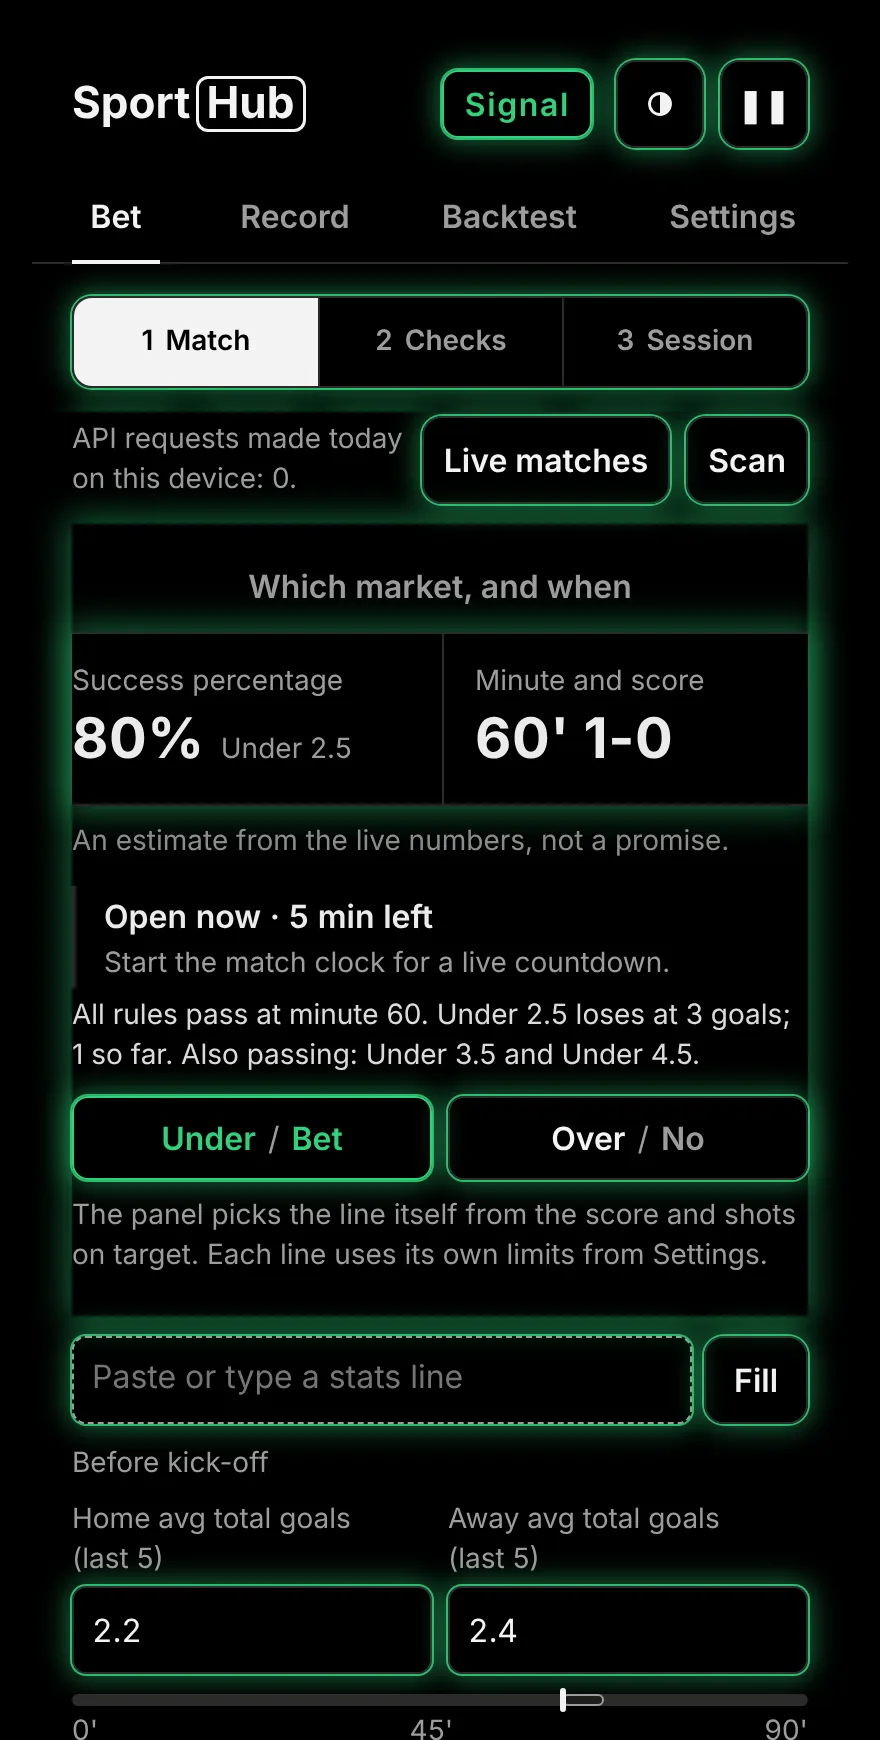
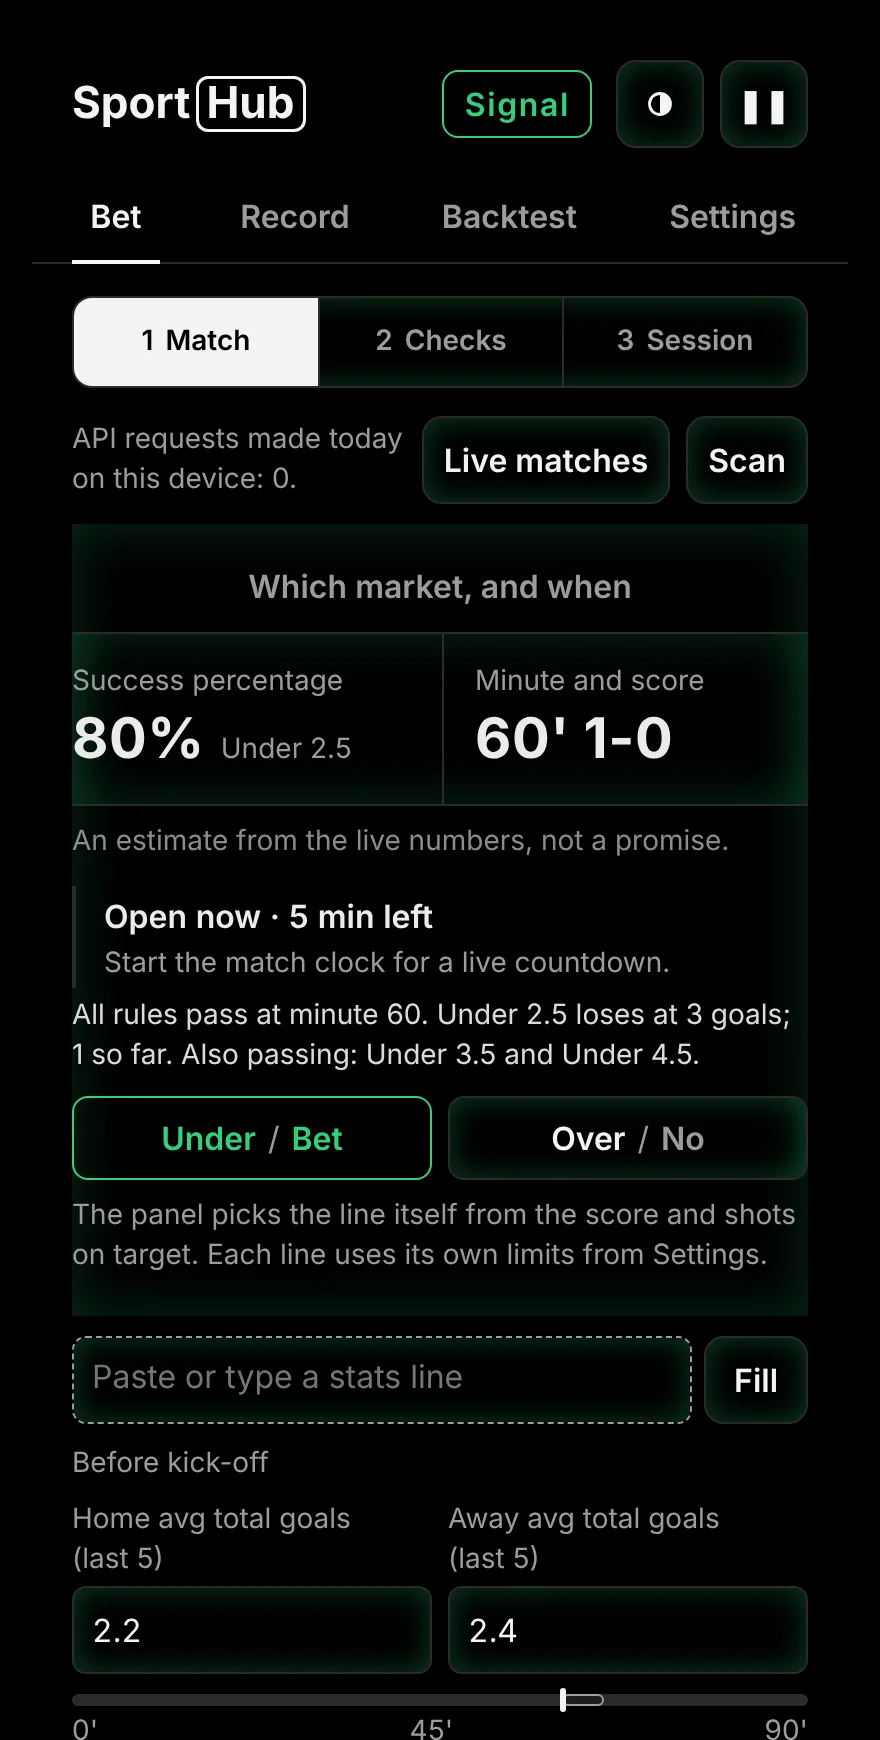
Build 68: soft inner green glow, none on green boxes
The glow now sits inside each box, at a much lower opacity (lighter still in light theme). Boxes that are already green (Signal badge, Under/Bet chip, live-filled fields) get no glow.

Claude-Session: https://claude.ai/code/session_01K42p2uwRXf4Wwj9iN5MFzn

Changed region(s): [[0.0307, 0.1552, 0.9511, 0.8379], [0.0614, 0.9, 0.9511, 0.9931], [0.4909, 0.0, 0.9511, 0.0931]]

diff --git a/panel.html b/panel.html
@@ -867,40 +867,35 @@ body.pg3 .v2[data-cur="3"] [data-pg]:not([data-pg~="3"]){display:none!important}
 .lvrow .lvbs{display:flex;flex:none;gap:8px}
 .lvrow .lvbs .lvbtn{padding:0 10px}
 
-/* ===== Build 67: every box keeps a soft green glow, non stop ===== */
-:root{--glr:47,210,122}
-@media (prefers-color-scheme:light){:root:not([data-theme="dark"]){--glr:10,150,80}}
-:root[data-theme="light"]{--glr:10,150,80}
-/* buttons, chips, fields: a thin green ring that breathes, with a soft glow around it */
+/* ===== Build 68: a soft INNER green glow on every box, non stop; boxes that are already green get none ===== */
+:root{--glr:47,210,122;--gla:1}
+@media (prefers-color-scheme:light){:root:not([data-theme="dark"]){--glr:10,150,80;--gla:.55}}
+:root[data-theme="light"]{--glr:10,150,80;--gla:.55}
+/* small boxes (buttons, chips, fields): the glow sits inside the edge and breathes slowly */
 @keyframes u35gl{
- 0%,100%{box-shadow:0 0 0 1px rgba(var(--glr),.35),0 0 4px 0 rgba(var(--glr),.18)}
- 50%{box-shadow:0 0 0 1px rgba(var(--glr),.85),0 0 14px 2px rgba(var(--glr),.50)}
+ 0%,100%{box-shadow:inset 0 0 6px 0 rgba(var(--glr),calc(.07*var(--gla)))}
+ 50%{box-shadow:inset 0 0 14px 1px rgba(var(--glr),calc(.26*var(--gla)))}
 }
-/* open areas whose text sits right at the edge (the Session figures, the charts, the verdict): the glow only, no ring on top of the text */
+/* large areas (the verdict, the Session figures, the charts): a wider, even softer glow */
 @keyframes u35glr{
- 0%,100%{box-shadow:0 0 5px 0 rgba(var(--glr),.18)}
- 50%{box-shadow:0 0 16px 3px rgba(var(--glr),.45)}
+ 0%,100%{box-shadow:inset 0 0 10px 0 rgba(var(--glr),calc(.05*var(--gla)))}
+ 50%{box-shadow:inset 0 0 26px 2px rgba(var(--glr),calc(.18*var(--gla)))}
 }
-/* the floating bar is flat (its own shadow rule is !important), so its glow is a drop-shadow filter that follows the bar's outline */
-@keyframes u35gld{
- 0%,100%{filter:drop-shadow(0 0 1px rgba(var(--glr),.45)) drop-shadow(0 0 4px rgba(var(--glr),.18))}
- 50%{filter:drop-shadow(0 0 1px rgba(var(--glr),.9)) drop-shadow(0 0 12px rgba(var(--glr),.55))}
-}
-/* :where keeps the specificity at zero, so the clock and bar flashes above still win while they run */
-:where(.dock,.msc,.badge,.momseg,#pgstrip,#chips i,.lvr,
- button:not(.fhd):not(.tabs button):not(#pgstrip button):not(.momseg button),
- input:not([type=checkbox]):not([type=radio]):not([type=range]),select,textarea){animation:u35gl 3.2s ease-in-out infinite}
-:where(#msig,.xgcard,#banner,.grid){animation:u35glr 3.2s ease-in-out infinite}
-:where(.dock){animation-name:u35gld}
-/* the verdict card must not clip the glow of the boxes inside it */
-#msig{overflow:visible}
+/* :where keeps the specificity at zero, so the clock flash above still wins while it runs.
+   Green boxes (.go badge, .go chip, .w chip or button, .p field, the focused or green text areas) are left out: the glow does not sit on top of green. */
+:where(.msc:not(.go),.badge:not(.go),.momseg,#pgstrip,#chips i:not(.w),.lvr,
+ button:not(.fhd):not(.w):not(.tabs button):not(#pgstrip button):not(.momseg button),
+ input:not([type=checkbox]):not([type=radio]):not([type=range]):not(.p),select,textarea:not(:focus):not(.rout)){animation:u35gl 3.6s ease-in-out infinite}
+:where(#msig,.xgcard,#banner,.grid){animation:u35glr 3.6s ease-in-out infinite}
+/* the floating bar is flat (its own shadow rule is !important), so its glow lives on a layer behind its text */
+.dock::before{content:"";position:absolute;inset:0;z-index:-1;border-radius:inherit;pointer-events:none;animation:u35gl 3.6s ease-in-out infinite}
 @media (prefers-reduced-motion:reduce){
  /* still, but still green. !important because the flat skin sets box-shadow:none on most of these */
- :where(.msc,.badge,.momseg,#pgstrip,#chips i,.lvr,
-  button:not(.fhd):not(.tabs button):not(#pgstrip button):not(.momseg button),
-  input:not([type=checkbox]):not([type=radio]):not([type=range]),select,textarea){animation:none;box-shadow:0 0 0 1px rgba(var(--glr),.6),0 0 10px 1px rgba(var(--glr),.35)!important}
- :where(#msig,.xgcard,#banner,.grid){animation:none;box-shadow:0 0 12px 2px rgba(var(--glr),.35)!important}
- :where(.dock){animation:none;filter:drop-shadow(0 0 1px rgba(var(--glr),.7)) drop-shadow(0 0 6px rgba(var(--glr),.4))}
+ :where(.msc:not(.go),.badge:not(.go),.momseg,#pgstrip,#chips i:not(.w),.lvr,
+  button:not(.fhd):not(.w):not(.tabs button):not(#pgstrip button):not(.momseg button),
+  input:not([type=checkbox]):not([type=radio]):not([type=range]):not(.p),select,textarea:not(:focus):not(.rout)){animation:none;box-shadow:inset 0 0 10px 0 rgba(var(--glr),calc(.16*var(--gla)))!important}
+ :where(#msig,.xgcard,#banner,.grid){animation:none;box-shadow:inset 0 0 18px 1px rgba(var(--glr),calc(.12*var(--gla)))!important}
+ .dock::before{animation:none;box-shadow:inset 0 0 10px 0 rgba(var(--glr),calc(.16*var(--gla)))}
 }
 </style>
 </head>
@@ -1194,7 +1189,7 @@ body.pg3 .v2[data-cur="3"] [data-pg]:not([data-pg~="3"]){display:none!important}
  </section>
  <div class="pgnav" id="pgnav" hidden><button type="button" data-go="back">Back</button><button type="button" data-go="next">Next</button></div>
  <p class="pgsr" id="pgsr" role="status" aria-live="polite"></p>
- <footer>Numbers come from a pasted stats line, or are pulled from your own API-Sports key if you add one. Not connected to a bookmaker. No bet is guaranteed.<span class="bld"><span id="buildno">Build 67 · 7 Nov 2026</span> <a id="aboutlk" class="abl" href="./?about">About SportHub</a> <button type="button" class="pu" id="reloadnew" data-a="reload">Reload latest</button></span></footer>
+ <footer>Numbers come from a pasted stats line, or are pulled from your own API-Sports key if you add one. Not connected to a bookmaker. No bet is guaranteed.<span class="bld"><span id="buildno">Build 68 · 7 Nov 2026</span> <a id="aboutlk" class="abl" href="./?about">About SportHub</a> <button type="button" class="pu" id="reloadnew" data-a="reload">Reload latest</button></span></footer>
 </main>
 
 <script>

diff --git a/index.html b/index.html
@@ -264,7 +264,7 @@ h1,h2,h3,.wm,.wm *{font-weight:700 !important}
    <div class="phone">
     <picture>
      <source srcset="img/phone-bet-light.webp" media="(prefers-color-scheme: light)">
-     <img src="img/phone-bet-dark.webp" width="880" height="1740" alt="The Match page of the Bet tab at minute 60 with the score 1-0, every box ringed by a soft green glow. A line in front of the Live matches and Scan buttons counts the API requests made today on this device. Under those buttons the card shows the Success percentage for this live match next to the minute and score, and a window that is open with 5 minutes left. Two small chips read Under / Bet and Over / No. A page strip under the tabs shows Match, Checks and Session." fetchpriority="high">
+     <img src="img/phone-bet-dark.webp" width="880" height="1740" alt="The Match page of the Bet tab at minute 60 with the score 1-0, every box softly glowing green from the inside. A line in front of the Live matches and Scan buttons counts the API requests made today on this device. Under those buttons the card shows the Success percentage for this live match next to the minute and score, and a window that is open with 5 minutes left. Two small chips read Under / Bet and Over / No. A page strip under the tabs shows Match, Checks and Session." fetchpriority="high">
     </picture>
    </div>
   </div>
